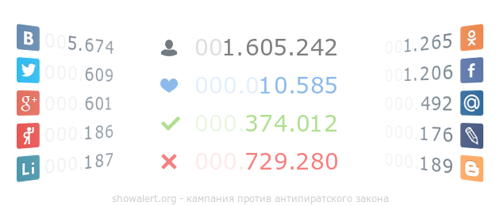
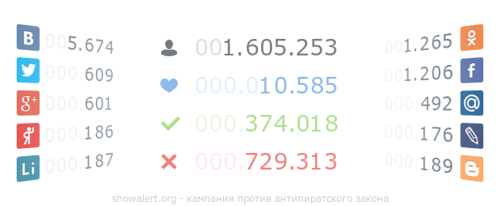
some updates

Changed region(s): [[0.6, 0.7282, 0.69, 0.8447], [0.6, 0.1748, 0.69, 0.2913], [0.63, 0.5534, 0.69, 0.6408]]

diff --git a/votes.js b/votes.js
@@ -1,1 +1,1 @@
-window.lk.votes(23828)
+window.lk.votes(23831)
